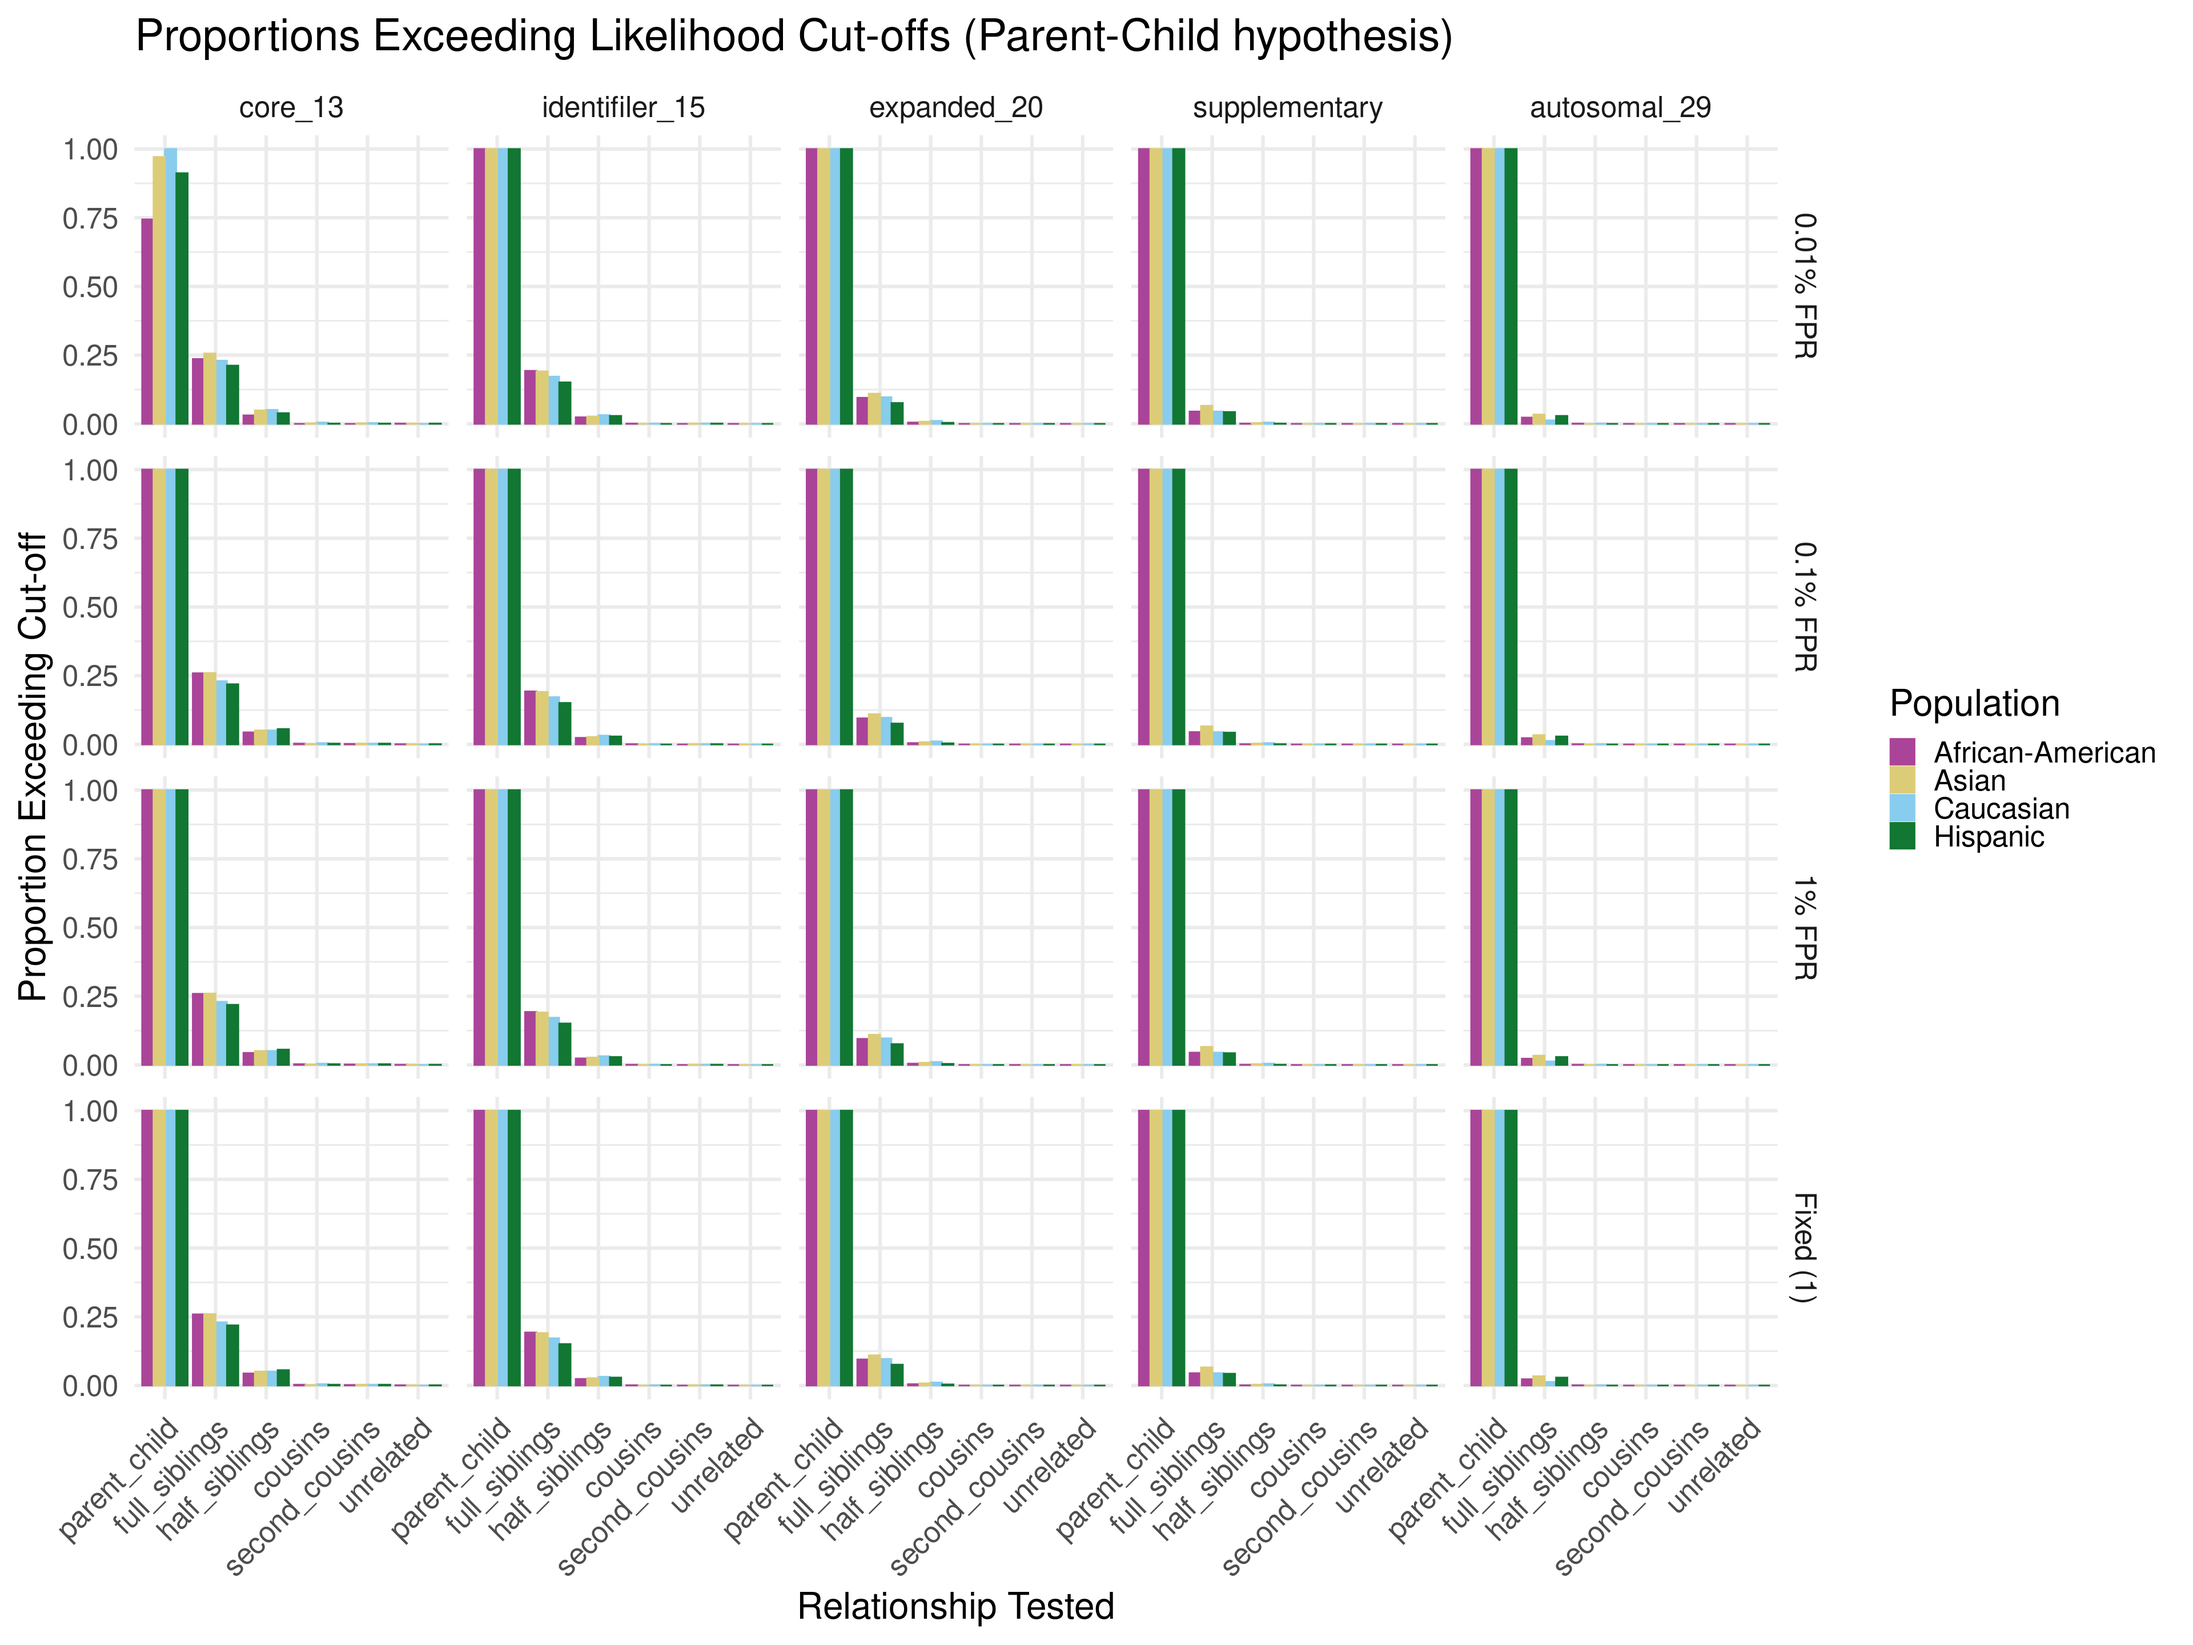
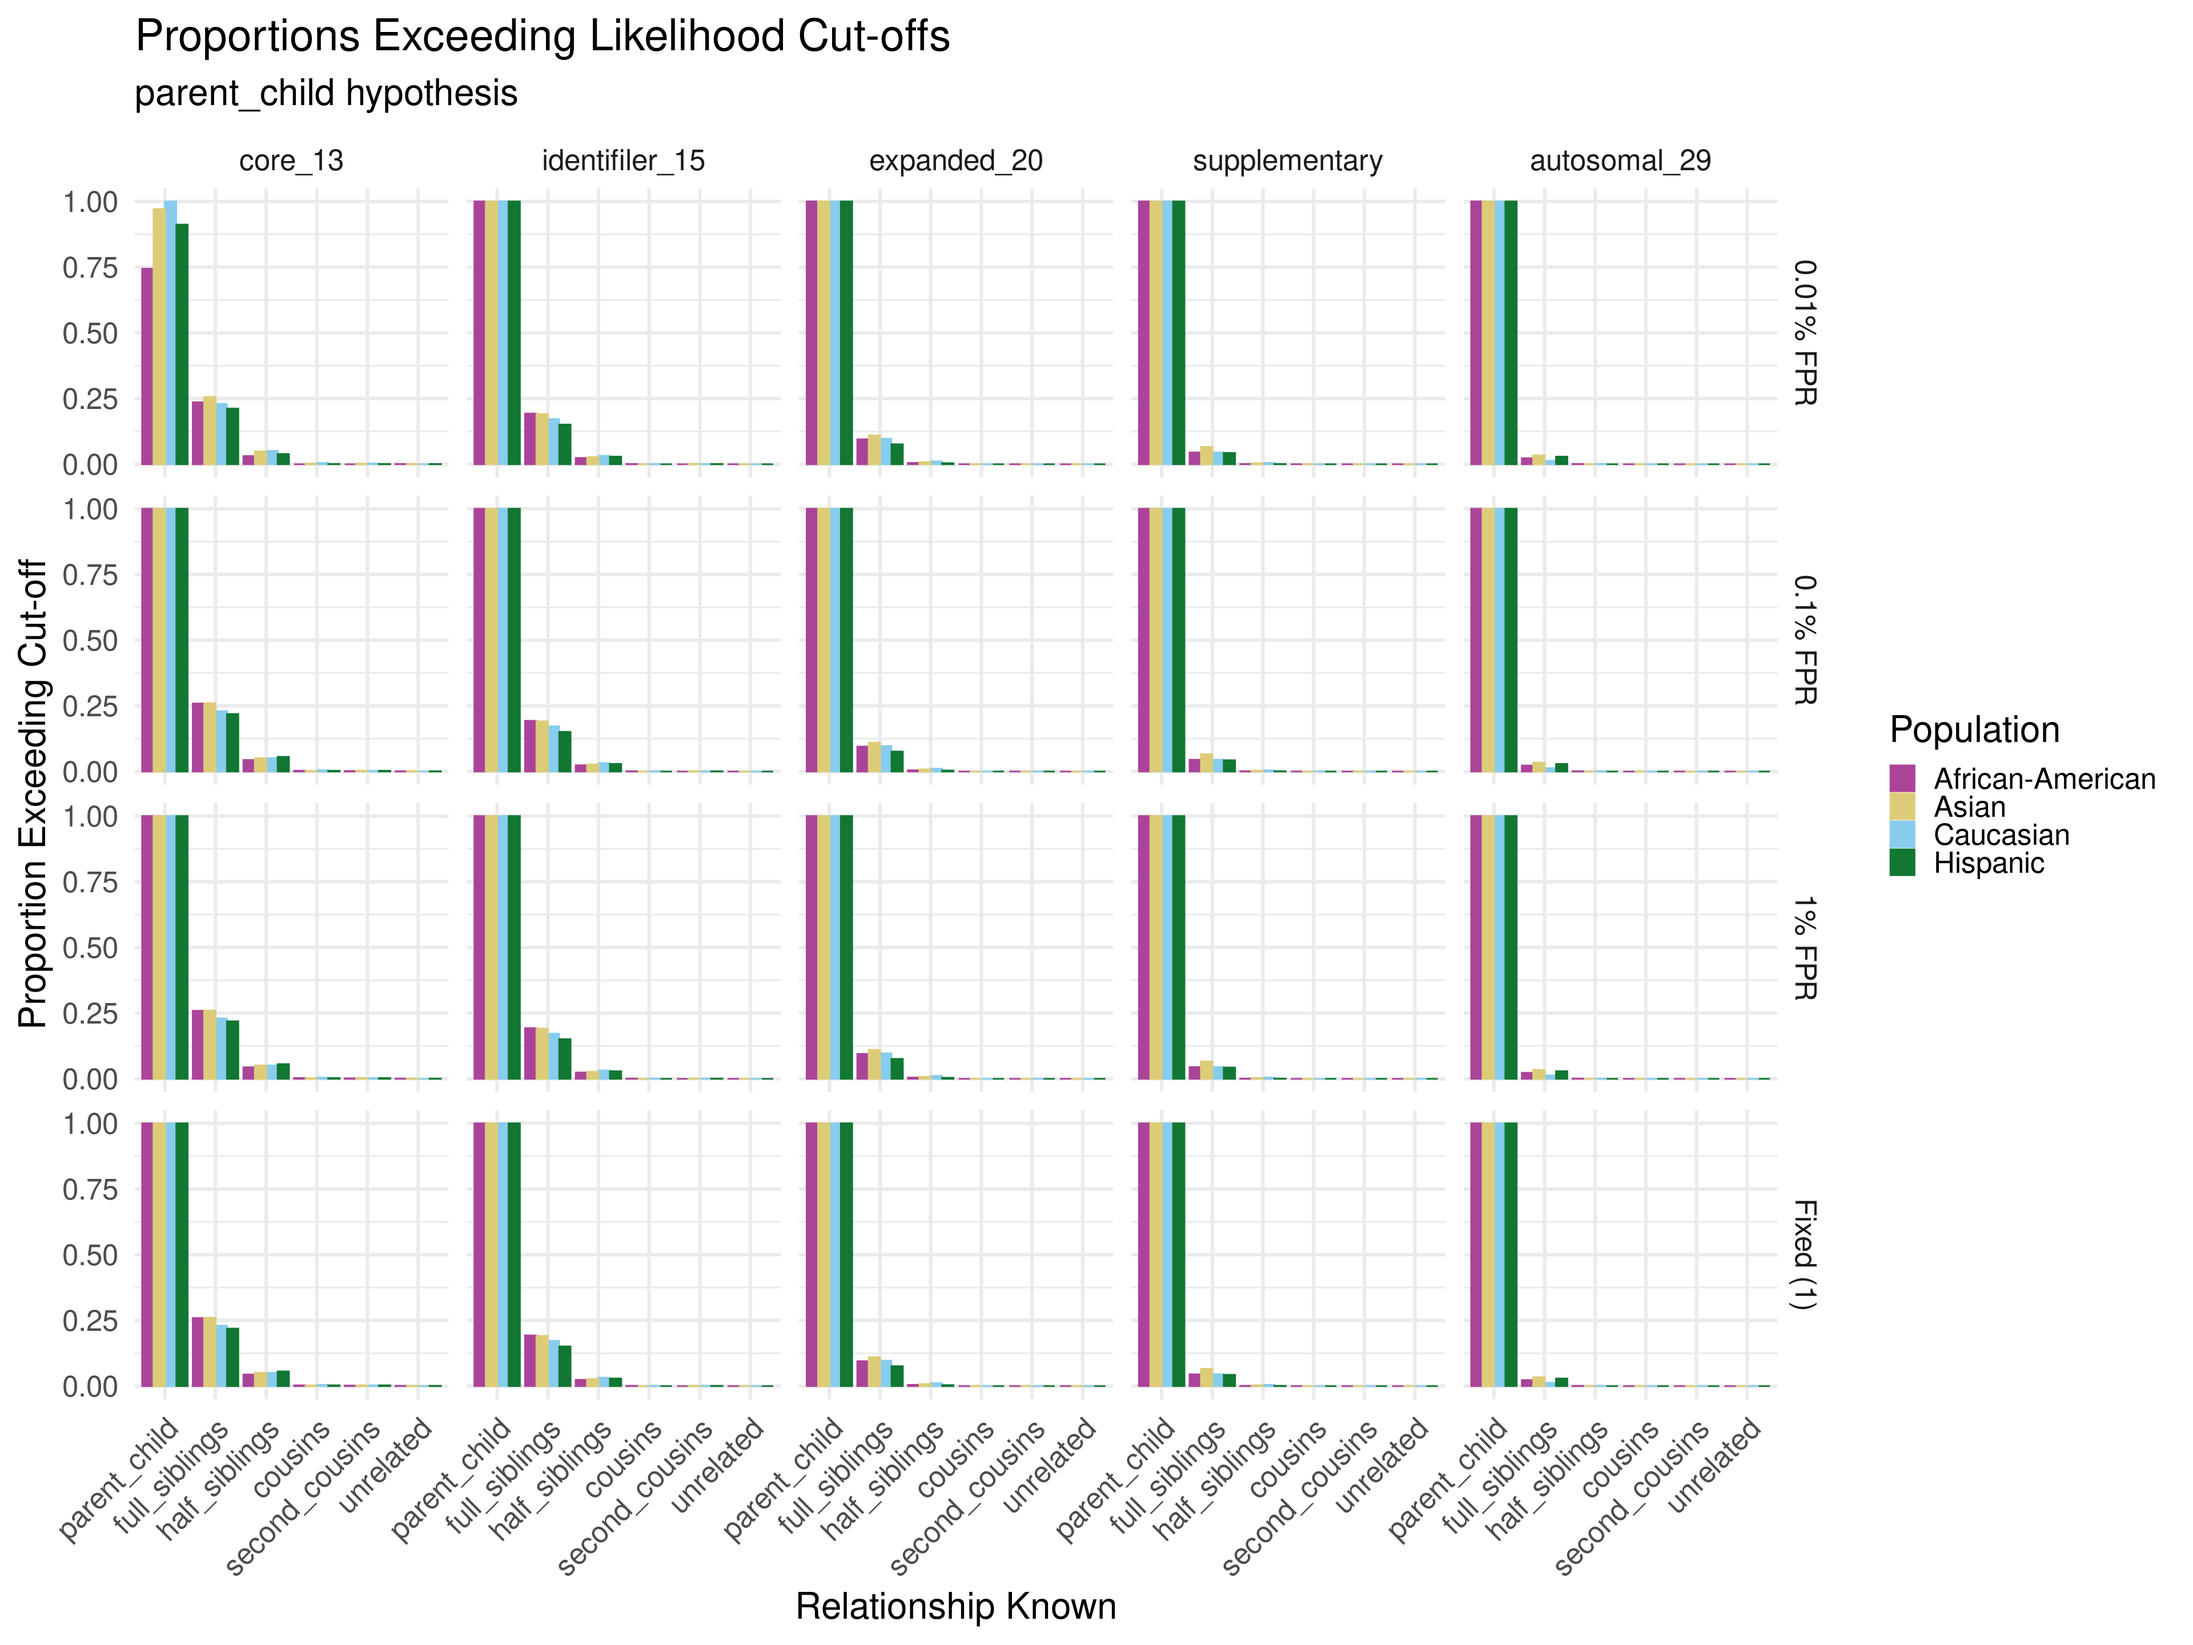
Build site.

diff --git a/docs/lr_dist.html b/docs/lr_dist.html
@@ -354,7 +354,7 @@ div.tocify {
 
 <h1 class="title toc-ignore">Likelihood Ratio Distribution</h1>
 <h4 class="author">Hannah Van Wyk</h4>
-<h4 class="date">2024-10-06 16:36:33</h4>
+<h4 class="date">2024-10-16 17:02:29</h4>
 
 </div>
 
@@ -379,7 +379,7 @@ div.tocify {
 <div class="tab-content">
 <div id="summary" class="tab-pane fade in active">
 <p>
-<strong>Last updated:</strong> 2024-10-06
+<strong>Last updated:</strong> 2024-10-16
 </p>
 <p>
 <strong>Checks:</strong> <span class="glyphicon glyphicon-ok text-success" aria-hidden="true"></span> 7 <span class="glyphicon glyphicon-exclamation-sign text-danger" aria-hidden="true"></span> 0
@@ -470,16 +470,16 @@ This reproducible <a href="https://rmarkdown.rstudio.com">R Markdown</a> analysi
 <div class="panel panel-default">
 <div class="panel-heading">
 <p class="panel-title">
-<a data-toggle="collapse" data-parent="#workflowr-checks" href="#strongRepositoryversionstrongahrefhttpsgithubcomlasisilabPODFRIDGEtree16dc33f6d641d3828ed3b01da43d795bde3040f1targetblank16dc33fa"> <span class="glyphicon glyphicon-ok text-success" aria-hidden="true"></span> <strong>Repository version:</strong> <a href="https://github.com/lasisilab/PODFRIDGE/tree/16dc33f6d641d3828ed3b01da43d795bde3040f1" target="_blank">16dc33f</a> </a>
+<a data-toggle="collapse" data-parent="#workflowr-checks" href="#strongRepositoryversionstrongahrefhttpsgithubcomlasisilabPODFRIDGEtreee8e2aae851b621ea01ca00fab8825f0d8db32bdatargetblanke8e2aaea"> <span class="glyphicon glyphicon-ok text-success" aria-hidden="true"></span> <strong>Repository version:</strong> <a href="https://github.com/lasisilab/PODFRIDGE/tree/e8e2aae851b621ea01ca00fab8825f0d8db32bda" target="_blank">e8e2aae</a> </a>
 </p>
 </div>
[2 lines of base64/hex data omitted]
 <div class="panel-body">
 <p>
 Great! You are using Git for version control. Tracking code development and connecting the code version to the results is critical for reproducibility.
 </p>
 <p>
-The results in this page were generated with repository version <a href="https://github.com/lasisilab/PODFRIDGE/tree/16dc33f6d641d3828ed3b01da43d795bde3040f1" target="_blank">16dc33f</a>. See the <em>Past versions</em> tab to see a history of the changes made to the R Markdown and HTML files.
+The results in this page were generated with repository version <a href="https://github.com/lasisilab/PODFRIDGE/tree/e8e2aae851b621ea01ca00fab8825f0d8db32bda" target="_blank">e8e2aae</a>. See the <em>Past versions</em> tab to see a history of the changes made to the R Markdown and HTML files.
 </p>
 <p>
 Note that you need to be careful to ensure that all relevant files for the analysis have been committed to Git prior to generating the results (you can use <code>wflow_publish</code> or <code>wflow_git_commit</code>). workflowr only checks the R Markdown file, but you know if there are other scripts or data files that it depends on. Below is the status of the Git repository when the results were generated:
@@ -487,15 +487,6 @@ Note that you need to be careful to ensure that all relevant files for the analy
 <pre><code>
 Untracked files:
     Untracked:  data/example_data/
-
-Unstaged changes:
-    Modified:   code/lr_plots.R
-    Modified:   output/example_plots/log_likelihood_density.pdf
-    Modified:   output/example_plots/log_likelihood_histogram.pdf
-    Modified:   output/example_plots/proportions_exceeding_cutoffs.pdf
-    Modified:   output/example_plots/relationship_comparisons_plot.pdf
-    Modified:   output/example_plots/sim_line_chart_lr.pdf
-    Modified:   output/example_plots/sim_log_lr_panel_plot.pdf
 
 </code></pre>
 <p>
@@ -534,6 +525,40 @@ Message
 </tr>
 </thead>
 <tbody>
+<tr>
+<td>
+Rmd
+</td>
+<td>
+<a href="https://github.com/lasisilab/PODFRIDGE/blob/e8e2aae851b621ea01ca00fab8825f0d8db32bda/analysis/lr_dist.Rmd" target="_blank">e8e2aae</a>
+</td>
+<td>
+hcvw
+</td>
+<td>
+2024-10-16
+</td>
+<td>
+wflow_publish(c(“analysis/lr_dist.Rmd”))
+</td>
+</tr>
+<tr>
+<td>
+html
+</td>
+<td>
+<a href="https://rawcdn.githack.com/lasisilab/PODFRIDGE/032bb5f4deae98df75a3af6a7a81dd10838155c2/docs/lr_dist.html" target="_blank">032bb5f</a>
+</td>
+<td>
+hcvw
+</td>
+<td>
+2024-10-06
+</td>
+<td>
+Build site.
+</td>
+</tr>
 <tr>
 <td>
 Rmd
@@ -1055,7 +1080,7 @@ hcvw
 </table>
 </div>
 </div>
-<p>Plots showing the distribution of likelihood ratios relative to the cutoffs for each hypothesis type (cousins, full siblings, half siblings, parent_child, and second cousins) <img src="figure/lr_dist.Rmd/lr_distributions-1.png" width="1920" style="display: block; margin: auto;" /></p>
+<p>Plots showing the distribution of likelihood ratios relative to the cutoffs for each hypothesis type (cousins, full siblings, half siblings, parent_child, and second cousins). Here, we use the following cutoffs: false positive rate (FPR) of 0.01%, 0.1%, 1%, and a fixed cutoff of 1. Values that are not present in the plot correspond to a likelihood ratio of 0. <img src="figure/lr_dist.Rmd/lr_distributions-1.png" width="1920" style="display: block; margin: auto;" /></p>
 <p>
 <button type="button" class="btn btn-default btn-xs btn-workflowr btn-workflowr-fig" data-toggle="collapse" data-target="#fig-lr_distributions-1">
 Past versions of lr_distributions-1.png
@@ -1149,6 +1174,17 @@ Date
 </tr>
 </thead>
 <tbody>
+<tr>
+<td>
+<a href="https://github.com/lasisilab/PODFRIDGE/blob/032bb5f4deae98df75a3af6a7a81dd10838155c2/docs/figure/lr_dist.Rmd/lr_distributions-2.png" target="_blank">032bb5f</a>
+</td>
+<td>
+hcvw
+</td>
+<td>
+2024-10-06
+</td>
+</tr>
 <tr>
 <td>
 <a href="https://github.com/lasisilab/PODFRIDGE/blob/2d42c6a11d9edddcd8359e9c8f311db65b26c1b5/docs/figure/lr_dist.Rmd/lr_distributions-2.png" target="_blank">2d42c6a</a>
@@ -1293,6 +1329,17 @@ Date
 <tbody>
 <tr>
 <td>
+<a href="https://github.com/lasisilab/PODFRIDGE/blob/032bb5f4deae98df75a3af6a7a81dd10838155c2/docs/figure/lr_dist.Rmd/lr_distributions-4.png" target="_blank">032bb5f</a>
+</td>
+<td>
+hcvw
+</td>
+<td>
+2024-10-06
+</td>
+</tr>
+<tr>
+<td>
 <a href="https://github.com/lasisilab/PODFRIDGE/blob/2d42c6a11d9edddcd8359e9c8f311db65b26c1b5/docs/figure/lr_dist.Rmd/lr_distributions-4.png" target="_blank">2d42c6a</a>
 </td>
 <td>
@@ -1433,6 +1480,17 @@ Date
 </tr>
 </thead>
 <tbody>
+<tr>
+<td>
+<a href="https://github.com/lasisilab/PODFRIDGE/blob/032bb5f4deae98df75a3af6a7a81dd10838155c2/docs/figure/lr_dist.Rmd/lr_distributions-6.png" target="_blank">032bb5f</a>
+</td>
+<td>
+hcvw
+</td>
+<td>
+2024-10-06
+</td>
+</tr>
 <tr>
 <td>
 <a href="https://github.com/lasisilab/PODFRIDGE/blob/2d42c6a11d9edddcd8359e9c8f311db65b26c1b5/docs/figure/lr_dist.Rmd/lr_distributions-6.png" target="_blank">2d42c6a</a>
@@ -1577,6 +1635,17 @@ Date
 <tbody>
 <tr>
 <td>
+<a href="https://github.com/lasisilab/PODFRIDGE/blob/032bb5f4deae98df75a3af6a7a81dd10838155c2/docs/figure/lr_dist.Rmd/lr_distributions-8.png" target="_blank">032bb5f</a>
+</td>
+<td>
+hcvw
+</td>
+<td>
+2024-10-06
+</td>
+</tr>
+<tr>
+<td>
 <a href="https://github.com/lasisilab/PODFRIDGE/blob/2d42c6a11d9edddcd8359e9c8f311db65b26c1b5/docs/figure/lr_dist.Rmd/lr_distributions-8.png" target="_blank">2d42c6a</a>
 </td>
 <td>
@@ -1719,6 +1788,17 @@ Date
 <tbody>
 <tr>
 <td>
+<a href="https://github.com/lasisilab/PODFRIDGE/blob/032bb5f4deae98df75a3af6a7a81dd10838155c2/docs/figure/lr_dist.Rmd/lr_distributions-10.png" target="_blank">032bb5f</a>
+</td>
+<td>
+hcvw
+</td>
+<td>
+2024-10-06
+</td>
+</tr>
+<tr>
+<td>
 <a href="https://github.com/lasisilab/PODFRIDGE/blob/2d42c6a11d9edddcd8359e9c8f311db65b26c1b5/docs/figure/lr_dist.Rmd/lr_distributions-10.png" target="_blank">2d42c6a</a>
 </td>
 <td>
@@ -1765,7 +1845,7 @@ hcvw
 </table>
 </div>
 </div>
-<p>Plots showing the proportion exceeding cutoffs for the parent-child and full siblings hypotheses:</p>
+<p>Below, for each hypothesis (parent_child, full siblings, half siblings, cousins, and second cousins), we plot the proportion of pairs with a likelihood ratio exceeding the cutoffs for a false positive rate (FPR) of 0.01%, 0.1%, 1% and fixed cutoff of 1. Results are faceted by loci set and known relationship type on the x-axis.</p>
 <p><img src="figure/lr_dist.Rmd/unnamed-chunk-1-1.png" width="1920" style="display: block; margin: auto;" /></p>
 <p>
 <button type="button" class="btn btn-default btn-xs btn-workflowr btn-workflowr-fig" data-toggle="collapse" data-target="#fig-unnamed-chunk-1-1">
@@ -1826,6 +1906,67 @@ hcvw
 </table>
 </div>
 </div>
+<p><img src="figure/lr_dist.Rmd/unnamed-chunk-1-2.png" width="1920" style="display: block; margin: auto;" /></p>
+<p>
+<button type="button" class="btn btn-default btn-xs btn-workflowr btn-workflowr-fig" data-toggle="collapse" data-target="#fig-unnamed-chunk-1-2">
+Past versions of unnamed-chunk-1-2.png
+</button>
+</p>
+<div id="fig-unnamed-chunk-1-2" class="collapse">
+<div class="table-responsive">
+<table class="table table-condensed table-hover">
+<thead>
+<tr>
+<th>
+Version
+</th>
+<th>
+Author
+</th>
+<th>
+Date
+</th>
+</tr>
+</thead>
+<tbody>
+<tr>
+<td>
+<a href="https://github.com/lasisilab/PODFRIDGE/blob/2d42c6a11d9edddcd8359e9c8f311db65b26c1b5/docs/figure/lr_dist.Rmd/unnamed-chunk-1-2.png" target="_blank">2d42c6a</a>
+</td>
+<td>
+hcvw
+</td>
+<td>
+2024-10-06
+</td>
+</tr>
+<tr>
+<td>
+<a href="https://github.com/lasisilab/PODFRIDGE/blob/a1d4766f54602e714baa9f848814708cd636d176/docs/figure/lr_dist.Rmd/unnamed-chunk-1-2.png" target="_blank">a1d4766</a>
+</td>
+<td>
+hcvw
+</td>
+<td>
+2024-09-27
+</td>
+</tr>
+<tr>
+<td>
+<a href="https://github.com/lasisilab/PODFRIDGE/blob/30f9caa1b32693862fc621b33428109c3bedefbd/docs/figure/lr_dist.Rmd/unnamed-chunk-1-2.png" target="_blank">30f9caa</a>
+</td>
+<td>
+hcvw
+</td>
+<td>
+2024-09-23
+</td>
+</tr>
+</tbody>
+</table>
+</div>
+</div>
+<p><img src="figure/lr_dist.Rmd/unnamed-chunk-1-3.png" width="1920" style="display: block; margin: auto;" /><img src="figure/lr_dist.Rmd/unnamed-chunk-1-4.png" width="1920" style="display: block; margin: auto;" /><img src="figure/lr_dist.Rmd/unnamed-chunk-1-5.png" width="1920" style="display: block; margin: auto;" /></p>
 <br>
 <p>
 <button type="button" class="btn btn-default btn-workflowr btn-workflowr-sessioninfo" data-toggle="collapse" data-target="#workflowr-sessioninfo" style="display: block;">
